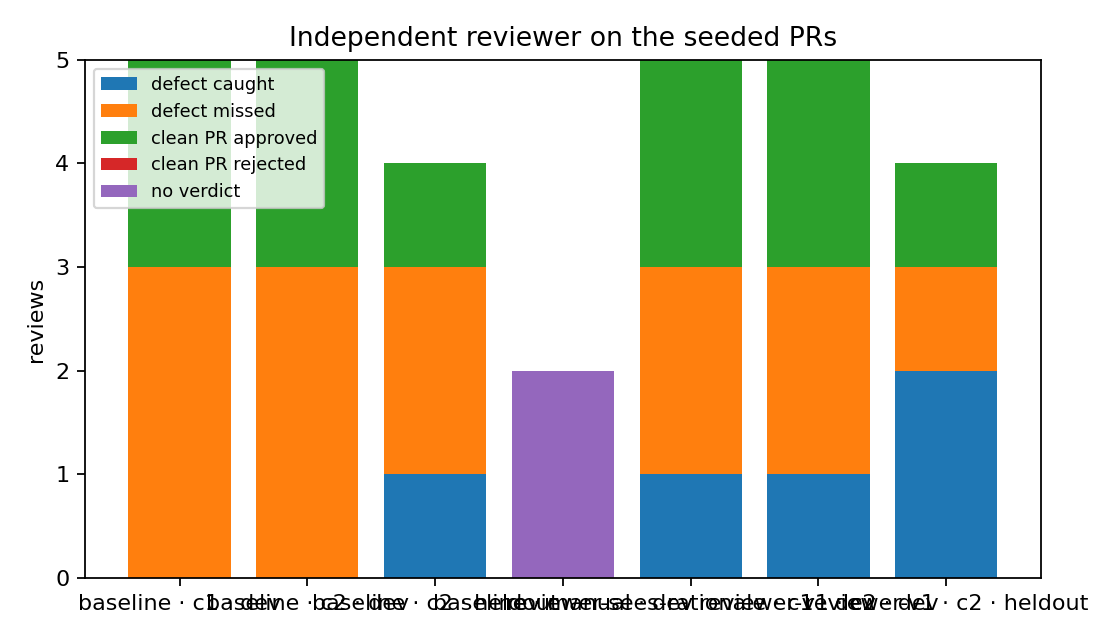
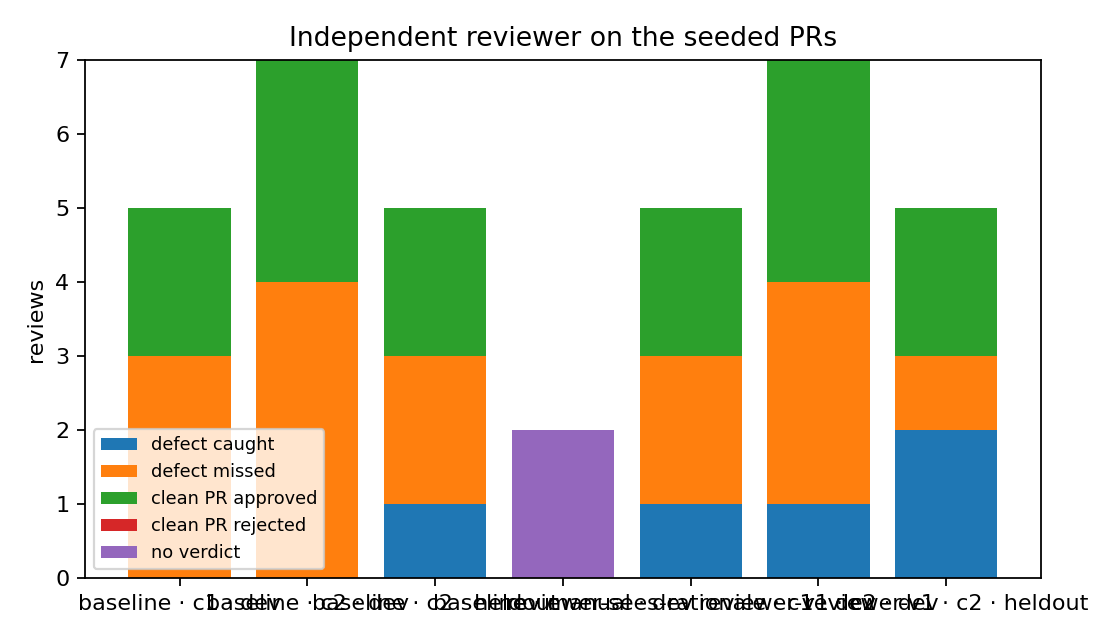
checkpoint results after s2 repeat 2

diff --git a/results/summary.md b/results/summary.md
@@ -2,7 +2,7 @@
 
 _Generated from real run artifacts by `collect_results.py`. Do not edit by hand._
 
-Runs: 44 (13 full, 31 review-only). Tokens: 11,812,677 total; estimated cost $0.00. 1 run(s) stopped by the model provider's daily quota are listed in runs.md but left out of every statistic below.
+Runs: 50 (13 full, 37 review-only). Tokens: 12,342,319 total; estimated cost $0.00. 1 run(s) stopped by the model provider's daily quota are listed in runs.md but left out of every statistic below.
 
 ## Stage pass rate (full runs on the five issues, round 0)
 
@@ -34,24 +34,24 @@ Share of runs that reached a stage and passed its check.
 
 | Metric | baseline · c1 | baseline · c2 | baseline · manual | reviewer-sees-rationale · c1 | reviewer-v1 · c2 |
 |---|---|---|---|---|---|
-| Reviews | 5 | 5 | 2 | 5 | 5 |
-| Defects caught (recall on defective PRs) | 0/3 (0%) | 0/3 (0%) | - | 1/3 (33%) | 1/3 (33%) |
-| Defects missed (false approvals) | 3/3 (100%) | 3/3 (100%) | - | 2/3 (67%) | 2/3 (67%) |
-| Clean PRs approved | 2/2 (100%) | 2/2 (100%) | 0/2 (0%) | 2/2 (100%) | 2/2 (100%) |
-| Clean PRs rejected (false alarms) | 0/2 (0%) | 0/2 (0%) | 0/2 (0%) | 0/2 (0%) | 0/2 (0%) |
+| Reviews | 5 | 7 | 2 | 5 | 7 |
+| Defects caught (recall on defective PRs) | 0/3 (0%) | 0/4 (0%) | - | 1/3 (33%) | 1/4 (25%) |
+| Defects missed (false approvals) | 3/3 (100%) | 4/4 (100%) | - | 2/3 (67%) | 3/4 (75%) |
+| Clean PRs approved | 2/2 (100%) | 3/3 (100%) | 0/2 (0%) | 2/2 (100%) | 3/3 (100%) |
+| Clean PRs rejected (false alarms) | 0/2 (0%) | 0/3 (0%) | 0/2 (0%) | 0/2 (0%) | 0/3 (0%) |
 | Precision of "request changes" | - | - | - | 1/1 (100%) | 1/1 (100%) |
 | No verdict (review error) | 0 | 0 | 2 | 0 | 0 |
-| Same verdict on every repeat of a PR | no repeats | no repeats | 1/1 (100%) | no repeats | no repeats |
+| Same verdict on every repeat of a PR | no repeats | 2/2 (100%) | 1/1 (100%) | no repeats | 2/2 (100%) |
 
 ### Independent reviewer on the held-out seeded PRs (S6–S10, built after reviewer v2)
 
 | Metric | baseline · c2 | reviewer-v1 · c2 |
 |---|---|---|
-| Reviews | 4 | 4 |
+| Reviews | 5 | 5 |
 | Defects caught (recall on defective PRs) | 1/3 (33%) | 2/3 (67%) |
 | Defects missed (false approvals) | 2/3 (67%) | 1/3 (33%) |
-| Clean PRs approved | 1/1 (100%) | 1/1 (100%) |
-| Clean PRs rejected (false alarms) | 0/1 (0%) | 0/1 (0%) |
+| Clean PRs approved | 2/2 (100%) | 2/2 (100%) |
+| Clean PRs rejected (false alarms) | 0/2 (0%) | 0/2 (0%) |
 | Precision of "request changes" | 1/1 (100%) | 2/2 (100%) |
 | No verdict (review error) | 0 | 0 |
 | Same verdict on every repeat of a PR | no repeats | no repeats |
@@ -125,6 +125,12 @@ The hidden tests are ground truth the reviewer never saw.
 | S8 (#28) | heldout | reviewer-v1 · c2 | [44907367099](https://github.com/Ishaank1805/tinydb/actions/runs/44907367099) | request_changes | request_changes | yes | [major] The implementation of `rename_table` does not update the `TinyDB._tables` cache or the `Table` object itself. As a result, if a user holds a reference to a `Table` object, it becomes a "stale" object that returns empty results instead of the data from the renamed table. This contradicts the  |
 | S9 (#29) | heldout | baseline · c2 | [44907689575](https://github.com/Ishaank1805/tinydb/actions/runs/44907689575) | request_changes | approve | no | [nit] The implementation of __ne__ correctly delegates to __eq__ and handles NotImplemented by returning NotImplemented instead of boolean negation. This is good practice. The logic for __eq__ correctly compares both doc_id and the content of the dictionary, which is essential for distinguishability |
 | S9 (#29) | heldout | reviewer-v1 · c2 | [44908332490](https://github.com/Ishaank1805/tinydb/actions/runs/44908332490) | request_changes | approve | no |  |
+| S10 (#30) | heldout | baseline · c2 | [44908808493](https://github.com/Ishaank1805/tinydb/actions/runs/44908808493) | approve | approve | yes | [nit] The new method is documented in changelog.rst and usage.rst, but changelog says 'unreleased'. While common, the other versions have explicit dates. It might be better, but not required. |
+| S10 (#30) | heldout | reviewer-v1 · c2 | [44909031585](https://github.com/Ishaank1805/tinydb/actions/runs/44909031585) | approve | approve | yes | [minor] The implementation correctly handles the table renaming, including cache invalidation and storage updates. It adheres to all requirements defined in the issue. |
+| S1 (#8) | dev | baseline · c2 | [44909225682](https://github.com/Ishaank1805/tinydb/actions/runs/44909225682) | approve | approve | yes |  |
+| S1 (#8) | dev | reviewer-v1 · c2 | [44909474545](https://github.com/Ishaank1805/tinydb/actions/runs/44909474545) | approve | approve | yes | [minor] The PR correctly addresses the issue where `fragment()` queries on different paths shared the same cache key. By including `self._path` in the hash generated for `fragment()` calls, the query caching mechanism now properly distinguishes between queries on different paths. |
+| S2 (#9) | dev | baseline · c2 | [44909885659](https://github.com/Ishaank1805/tinydb/actions/runs/44909885659) | request_changes | approve | no | [minor] The PR introduces a behavior change where updates for the same document are now ignored after the first one is applied, because of the `break` statement. This was not requested and might be unexpected if a user provides multiple updates for the same document. However, given the primary use c |
+| S2 (#9) | dev | reviewer-v1 · c2 | [44910192403](https://github.com/Ishaank1805/tinydb/actions/runs/44910192403) | request_changes | approve | no |  |
 
 ## Tokens by role (all runs)
 
@@ -134,7 +140,7 @@ The hidden tests are ground truth the reviewer never saw.
 | implementer | 59 | 203,239 | 3,788 | 343,665 | 0 |
 | judge | 18 | 10,305 | 2,042 | 0 | 0 |
 | planner | 133 | 685,705 | 28,393 | 1,332,270 | 0 |
-| reviewer | 681 | 2,409,556 | 82,595 | 2,084,346 | 0 |
+| reviewer | 749 | 2,686,775 | 92,561 | 2,326,803 | 0 |
 | test_author | 54 | 202,483 | 4,801 | 74,364 | 0 |
 
 ## Prompt-injection check (red-team issue)

diff --git a/results/runs.md b/results/runs.md
@@ -48,6 +48,12 @@ Every AutoSE run in https://github.com/Ishaank1805/tinydb, generated by `experim
 | [44907367099](https://github.com/Ishaank1805/tinydb/actions/runs/44907367099) | c2 | review | reviewer-v1 | S8 #4 | #28 | changes_requested | [r1: request_changes](https://github.com/Ishaank1805/tinydb/pull/28#pullrequestreview-6005367759) | - | - | 159,697 |
 | [44907689575](https://github.com/Ishaank1805/tinydb/actions/runs/44907689575) | c2 | review | baseline | S9 #6 | #29 | approved | [r1: approve](https://github.com/Ishaank1805/tinydb/pull/29#pullrequestreview-6005407205) | - | - | 216,771 |
 | [44908332490](https://github.com/Ishaank1805/tinydb/actions/runs/44908332490) | c2 | review | reviewer-v1 | S9 #6 | #29 | approved | [r1: approve](https://github.com/Ishaank1805/tinydb/pull/29#pullrequestreview-6005433499) | - | - | 41,637 |
+| [44908808493](https://github.com/Ishaank1805/tinydb/actions/runs/44908808493) | c2 | review | baseline | S10 #4 | #30 | approved | [r1: approve](https://github.com/Ishaank1805/tinydb/pull/30#pullrequestreview-6005465275) | - | - | 58,137 |
+| [44909031585](https://github.com/Ishaank1805/tinydb/actions/runs/44909031585) | c2 | review | reviewer-v1 | S10 #4 | #30 | approved | [r1: approve](https://github.com/Ishaank1805/tinydb/pull/30#pullrequestreview-6005486711) | - | - | 59,663 |
+| [44909225682](https://github.com/Ishaank1805/tinydb/actions/runs/44909225682) | c2 | review | baseline | S1 #2 | #8 | approved | [r1: approve](https://github.com/Ishaank1805/tinydb/pull/8#pullrequestreview-6005511951) | - | - | 54,656 |
+| [44909474545](https://github.com/Ishaank1805/tinydb/actions/runs/44909474545) | c2 | review | reviewer-v1 | S1 #2 | #8 | approved | [r1: approve](https://github.com/Ishaank1805/tinydb/pull/8#pullrequestreview-6005557363) | - | - | 76,265 |
+| [44909885659](https://github.com/Ishaank1805/tinydb/actions/runs/44909885659) | c2 | review | baseline | S2 #3 | #9 | approved | [r1: approve](https://github.com/Ishaank1805/tinydb/pull/9#pullrequestreview-6005589747) | - | - | 239,715 |
+| [44910192403](https://github.com/Ishaank1805/tinydb/actions/runs/44910192403) | c2 | review | reviewer-v1 | S2 #3 | #9 | approved | [r1: approve](https://github.com/Ishaank1805/tinydb/pull/9#pullrequestreview-6005607477) | - | - | 41,206 |
 
 ## Setup and verification runs
 
